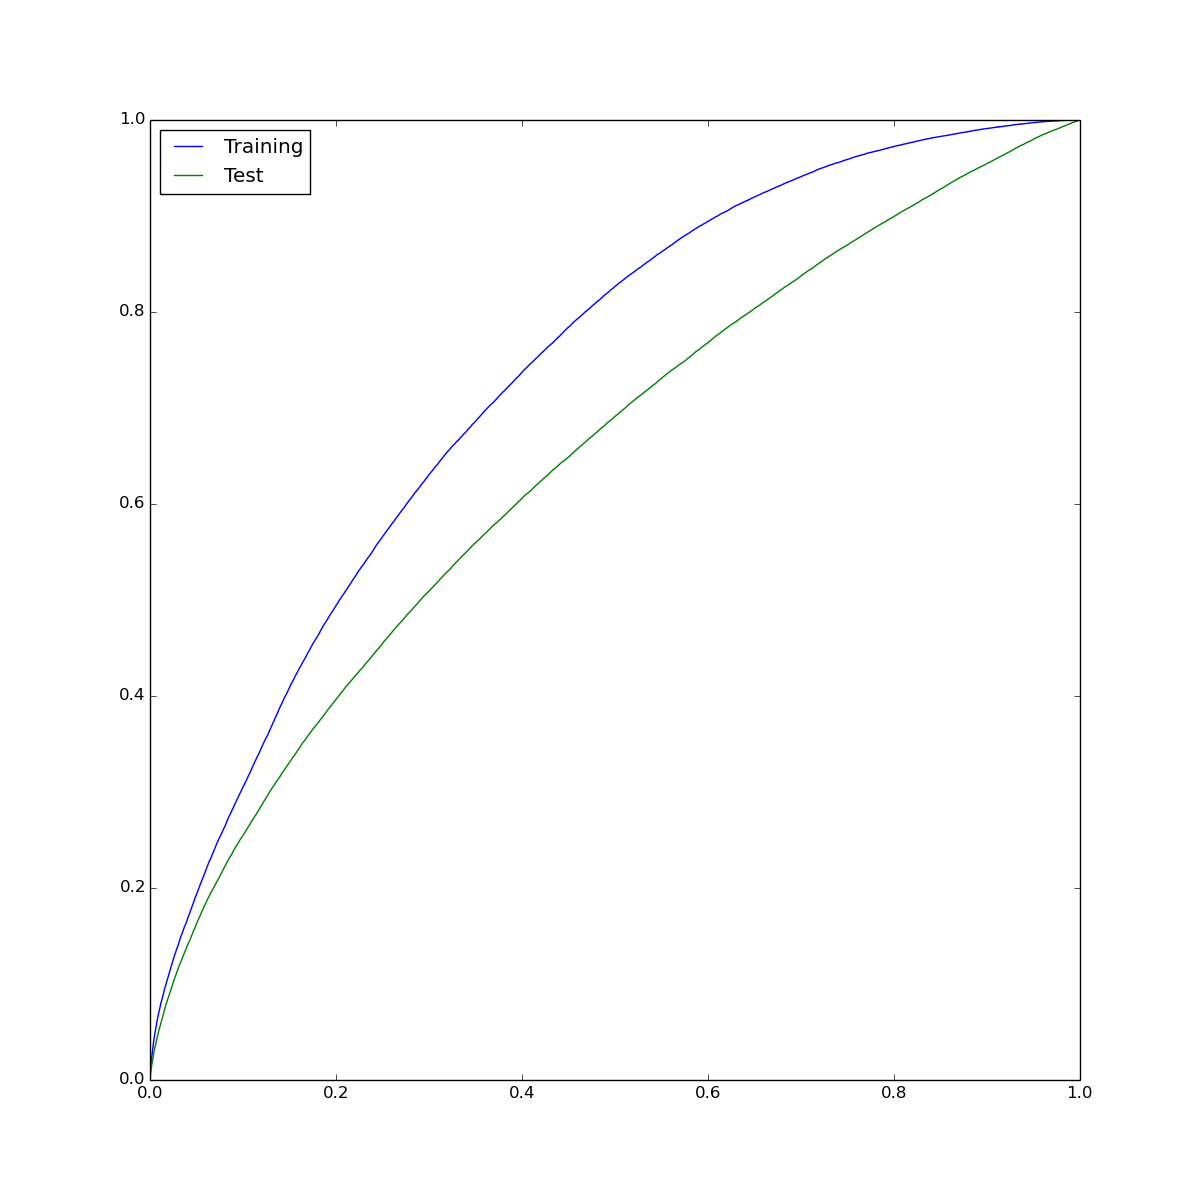
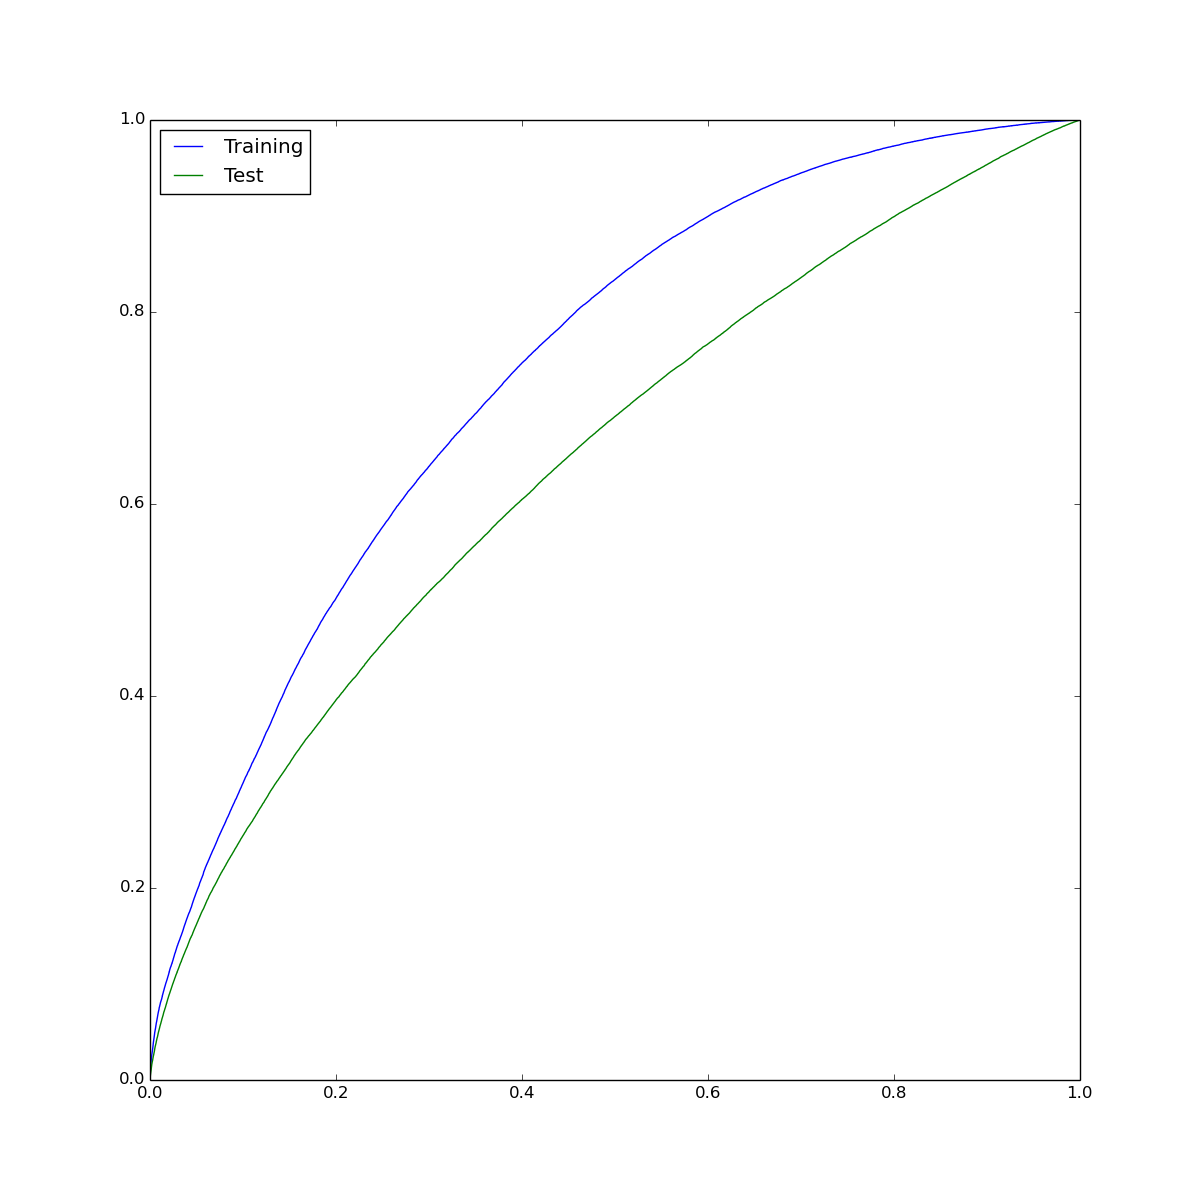
upload

diff --git a/table.md b/table.md
@@ -1,27 +1,28 @@
 | №    | Author | Submission | Contribution Score |
 | ---: | :---:  | :---: | ---: |
-| -9 | justHeuristic-989496|A-1639435-No-compiler-OK.csv | 301 618 647 |
-| -9 | Chmel_Tolstiy-1001180|A-1639114-No-compiler-OK.csv | 176 040 010 |
-| -9 | Yandex.Taxi | dist | 167 683 813 |
-| -9 | Yandex.Taxi | lon | 111 530 411 |
-| -9 | Yandex.Taxi | lat | 102 907 311 |
-| -9 | Yandex.Taxi | time_of_day_rel | 88 707 730 |
-| -9 | Yandex.Taxi | day_of_week=fri | 4 865 044 |
-| -9 | Yandex.Taxi | f_class=vip | 4 816 231 |
-| -9 | Yandex.Taxi | day_of_week=tue | 4 744 742 |
-| -9 | Yandex.Taxi | day_of_week=sat | 4 717 920 |
-| -9 | Yandex.Taxi | day_of_week=wed | 4 367 265 |
-| -9 | Yandex.Taxi | s_class | 4 176 731 |
-| -9 | Yandex.Taxi | day_of_week=thu | 4 111 514 |
-| -9 | Yandex.Taxi | day_of_week=mon | 4 005 162 |
-| -9 | Yandex.Taxi | s_class=business | 3 828 330 |
-| -9 | Yandex.Taxi | day_of_week=sun | 3 353 894 |
-| -9 | Yandex.Taxi | f_class=econom | 3 041 311 |
-| -9 | Yandex.Taxi | f_class=business | 2 522 365 |
-| -9 | Yandex.Taxi | s_class=vip | 1 400 573 |
-| -6 | Yandex.Taxi | t_class=vip | 797 173 |
-| -6 | Yandex.Taxi | t_class | 731 140 |
-| -6 | Yandex.Taxi | f_class | 32 289 |
-| 22 | Yandex.Taxi | s_class=econom | 383 |
-| 23 | Yandex.Taxi | t_class=business | 0 |
-| 24 | Yandex.Taxi | t_class=econom | 0 |
+| 0 | justHeuristic-989496|A-1639435-No-compiler-OK.csv | 285 893 739 |
+| 1 | Yandex.Taxi | dist | 144 170 241 |
+| 2 | Chmel_Tolstiy-1001180|A-1639114-No-compiler-OK.csv | 125 086 918 |
+| 3 | justHeuristic-989496|A-1640016-No-compiler-OK.csv | 121 856 273 |
+| 4 | Yandex.Taxi | lon | 101 832 997 |
+| 5 | Yandex.Taxi | lat | 91 095 469 |
+| 6 | Yandex.Taxi | time_of_day_rel | 81 665 025 |
+| 7 | Yandex.Taxi | day_of_week=fri | 4 647 444 |
+| 8 | Yandex.Taxi | day_of_week=tue | 4 431 727 |
+| 9 | Yandex.Taxi | day_of_week=sat | 4 411 888 |
+| 10 | Yandex.Taxi | s_class | 4 243 276 |
+| 11 | Yandex.Taxi | day_of_week=wed | 4 077 772 |
+| 12 | Yandex.Taxi | s_class=business | 3 891 678 |
+| 13 | Yandex.Taxi | f_class=vip | 3 859 142 |
+| 14 | Yandex.Taxi | day_of_week=thu | 3 800 846 |
+| 15 | Yandex.Taxi | day_of_week=mon | 3 736 672 |
+| 16 | Yandex.Taxi | day_of_week=sun | 3 212 557 |
+| 17 | Yandex.Taxi | f_class=econom | 3 047 145 |
+| 18 | Yandex.Taxi | f_class=business | 2 434 795 |
+| 19 | Yandex.Taxi | s_class=vip | 1 229 354 |
+| 20 | Yandex.Taxi | t_class | 678 257 |
+| 21 | Yandex.Taxi | t_class=vip | 670 575 |
+| 22 | Yandex.Taxi | f_class | 25 311 |
+| 23 | Yandex.Taxi | s_class=econom | 888 |
+| 24 | Yandex.Taxi | t_class=business | 0 |
+| 25 | Yandex.Taxi | t_class=econom | 0 |

diff --git a/ensemble.md b/ensemble.md
@@ -4,61 +4,63 @@
 
 | Dataset | AUC | Accuracy | Precision@5k|
 | :--- | :--- | :--- | :--- | :--- |
-| Training | 0.73424 | 0.74886 | 0.78800 |
-| Test | 0.64552 | 0.74239 | 0.69620 |
+| Training | 0.73906 | 0.74930 | 0.79360 |
+| Test | 0.64478 | 0.74224 | 0.69380 |
 
 
 #Feature ranking:
 
 ![](importances.png?raw=true)
 
-1. Chmel_Tolstiy-1001180|A-1639114-No-compiler-OK.csv (0.301619)
+1. Chmel_Tolstiy-1001180|A-1639114-No-compiler-OK.csv (0.285894)
 
-2. justHeuristic-989496|A-1639435-No-compiler-OK.csv (0.176040)
+2. justHeuristic-989496|A-1639435-No-compiler-OK.csv (0.144170)
 
-3. Yandex.Taxi | dist (0.167684)
+3. justHeuristic-989496|A-1640016-No-compiler-OK.csv (0.125087)
 
-4. Yandex.Taxi | lat (0.111530)
+4. Yandex.Taxi | dist (0.121856)
 
-5. Yandex.Taxi | lon (0.102907)
+5. Yandex.Taxi | lat (0.101833)
 
-6. Yandex.Taxi | time_of_day_rel (0.088708)
+6. Yandex.Taxi | lon (0.091095)
 
-7. Yandex.Taxi | day_of_week=fri (0.004865)
+7. Yandex.Taxi | time_of_day_rel (0.081665)
 
-8. Yandex.Taxi | day_of_week=mon (0.004816)
+8. Yandex.Taxi | day_of_week=fri (0.004647)
 
-9. Yandex.Taxi | day_of_week=sat (0.004745)
+9. Yandex.Taxi | day_of_week=mon (0.004432)
 
-10. Yandex.Taxi | day_of_week=sun (0.004718)
+10. Yandex.Taxi | day_of_week=sat (0.004412)
 
-11. Yandex.Taxi | day_of_week=thu (0.004367)
+11. Yandex.Taxi | day_of_week=sun (0.004243)
 
-12. Yandex.Taxi | day_of_week=tue (0.004177)
+12. Yandex.Taxi | day_of_week=thu (0.004078)
 
-13. Yandex.Taxi | day_of_week=wed (0.004112)
+13. Yandex.Taxi | day_of_week=tue (0.003892)
 
-14. Yandex.Taxi | f_class (0.004005)
+14. Yandex.Taxi | day_of_week=wed (0.003859)
 
-15. Yandex.Taxi | f_class=business (0.003828)
+15. Yandex.Taxi | f_class (0.003801)
 
-16. Yandex.Taxi | f_class=econom (0.003354)
+16. Yandex.Taxi | f_class=business (0.003737)
 
-17. Yandex.Taxi | f_class=vip (0.003041)
+17. Yandex.Taxi | f_class=econom (0.003213)
 
-18. Yandex.Taxi | s_class (0.002522)
+18. Yandex.Taxi | f_class=vip (0.003047)
 
-19. Yandex.Taxi | s_class=business (0.001401)
+19. Yandex.Taxi | s_class (0.002435)
 
-20. Yandex.Taxi | s_class=econom (0.000797)
+20. Yandex.Taxi | s_class=business (0.001229)
 
-21. Yandex.Taxi | s_class=vip (0.000731)
+21. Yandex.Taxi | s_class=econom (0.000678)
 
-22. Yandex.Taxi | t_class (0.000032)
+22. Yandex.Taxi | s_class=vip (0.000671)
 
-23. Yandex.Taxi | t_class=business (0.000000)
+23. Yandex.Taxi | t_class (0.000025)
 
-24. Yandex.Taxi | t_class=econom (0.000000)
+24. Yandex.Taxi | t_class=business (0.000001)
 
-25. Yandex.Taxi | t_class=vip (0.000000)
+25. Yandex.Taxi | t_class=econom (0.000000)
+
+26. Yandex.Taxi | t_class=vip (0.000000)
 
